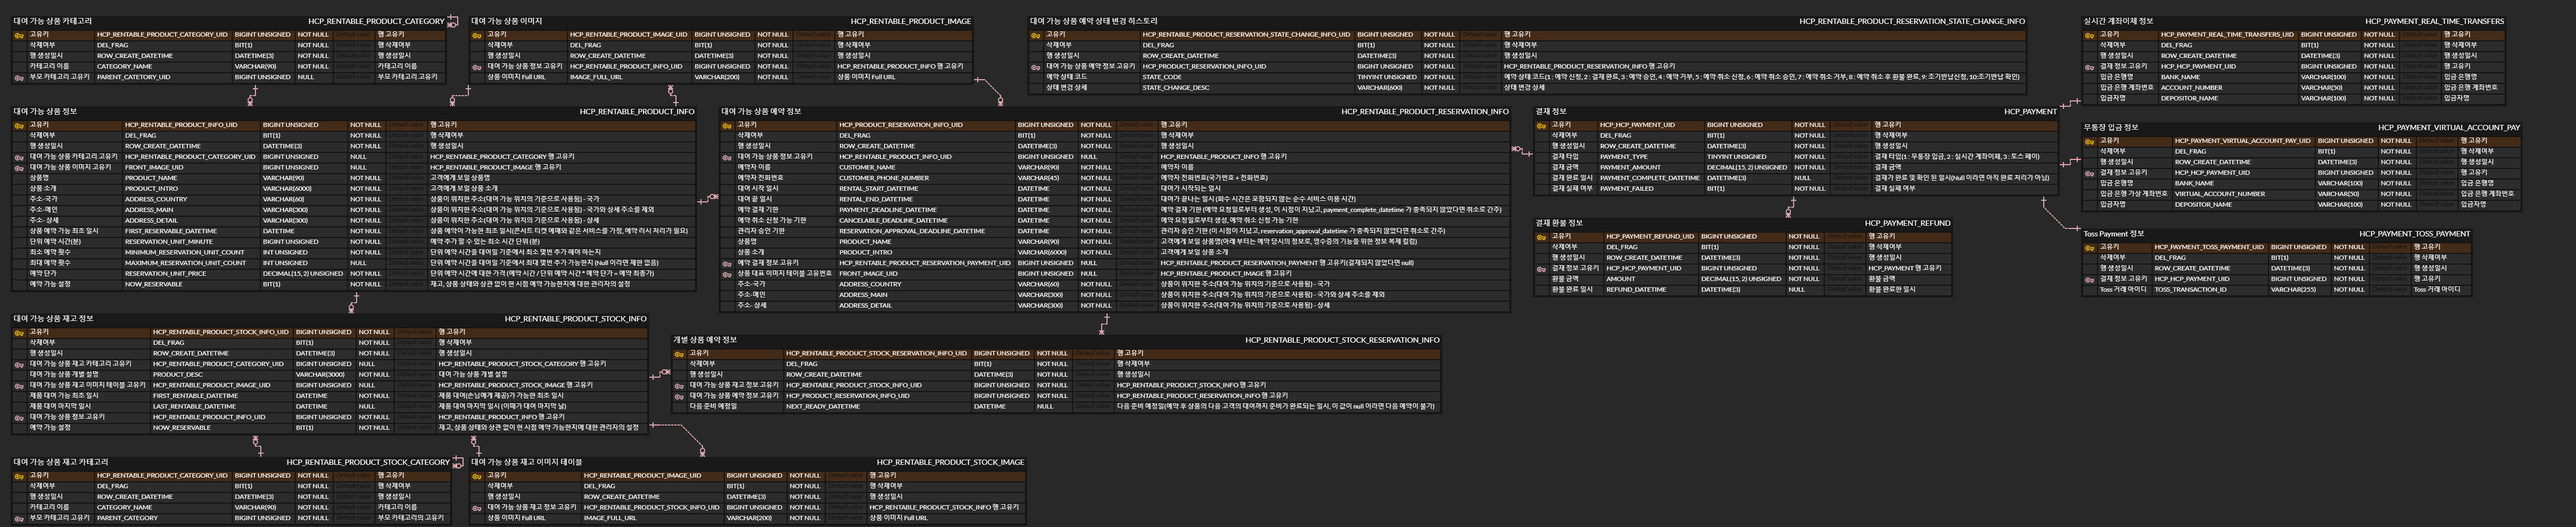
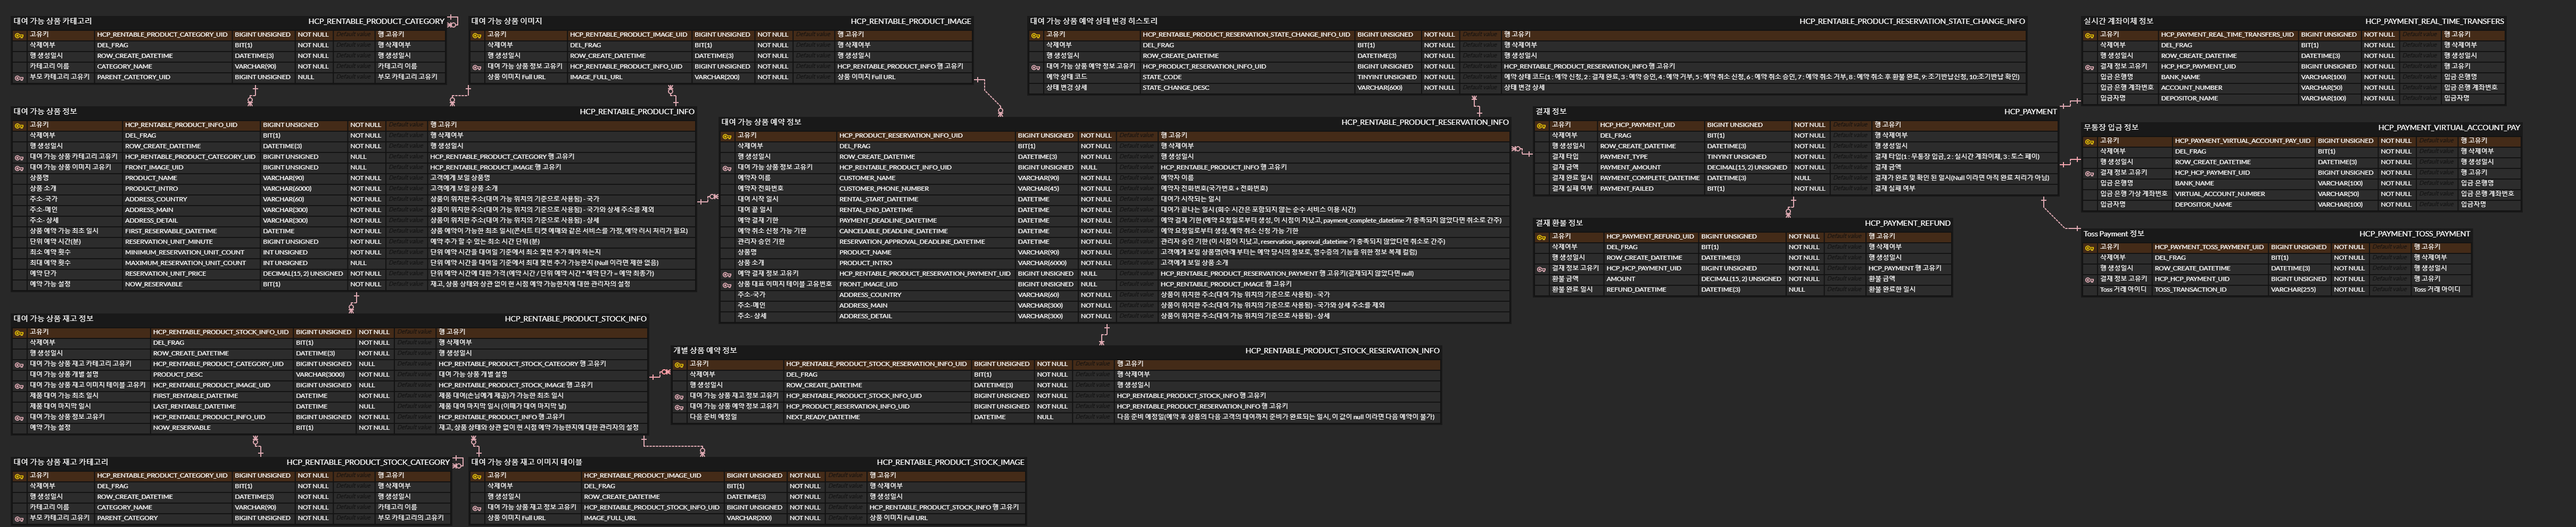
feat : 결재 관련 데이터 테이블 추가(결재 모듈은 추후 추가 예정)

diff --git a/module-service-rental-reservation/src/main/kotlin/com/raillylinker/module_service_rental_reservation/jpa_beans/db1_main/entities/Db1_RaillyLinkerCompany_Payment.kt b/module-service-rental-reservation/src/main/kotlin/com/raillylinker/module_service_rental_reservation/jpa_beans/db1_main/entities/Db1_RaillyLinkerCompany_Payment.kt
@@ -1,0 +1,69 @@
+package com.raillylinker.module_service_rental_reservation.jpa_beans.db1_main.entities
+
+import jakarta.persistence.*
+import org.hibernate.annotations.ColumnDefault
+import org.hibernate.annotations.Comment
+import org.hibernate.annotations.CreationTimestamp
+import org.hibernate.annotations.UpdateTimestamp
+import java.math.BigDecimal
+import java.time.LocalDateTime
+
+@Entity
+@Table(
+    name = "payment",
+    catalog = "railly_linker_company"
+)
+@Comment("결재 정보 테이블")
+class Db1_RaillyLinkerCompany_Payment(
+    @Column(name = "payment_type", nullable = false, columnDefinition = "TINYINT UNSIGNED")
+    @Comment("결재 타입(1 : 무통장 입금, 2 : 실시간 계좌이체, 3 : 토스 페이)")
+    var paymentType: String,
+
+    @Column(name = "payment_amount", nullable = false, columnDefinition = "DECIMAL(15, 2) UNSIGNED")
+    @Comment("결재 금액")
+    var paymentAmount: BigDecimal,
+
+    @Column(name = "payment_complete_datetime", nullable = true, columnDefinition = "DATETIME(3)")
+    @Comment("결재 완료 일시")
+    var paymentCompleteDatetime: LocalDateTime?,
+
+    @Column(name = "payment_failed", nullable = false, columnDefinition = "BIT(1)")
+    @Comment("결재 실패 여부")
+    var paymentFailed: Boolean
+) {
+    @Id
+    @GeneratedValue(strategy = GenerationType.IDENTITY)
+    @Column(name = "uid", columnDefinition = "BIGINT UNSIGNED")
+    @Comment("행 고유값")
+    var uid: Long? = null
+
+    @Column(name = "row_create_date", nullable = false, columnDefinition = "DATETIME(3)")
+    @CreationTimestamp
+    @Comment("행 생성일")
+    var rowCreateDate: LocalDateTime? = null
+
+    @Column(name = "row_update_date", nullable = false, columnDefinition = "DATETIME(3)")
+    @UpdateTimestamp
+    @Comment("행 수정일")
+    var rowUpdateDate: LocalDateTime? = null
+
+    @Column(name = "row_delete_date_str", nullable = false, columnDefinition = "VARCHAR(50)")
+    @ColumnDefault("'/'")
+    @Comment("행 삭제일(yyyy_MM_dd_T_HH_mm_ss_SSS_z, 삭제되지 않았다면 /)")
+    var rowDeleteDateStr: String = "/"
+
+    // ---------------------------------------------------------------------------------------------
+    // [@OneToMany 변수들]
+    // 상위 카테고리가 삭제되면 하위 카테고리도 삭제
+    @OneToMany(
+        mappedBy = "payment",
+        fetch = FetchType.LAZY,
+        cascade = [CascadeType.ALL]
+    )
+    var paymentRefundList: MutableList<Db1_RaillyLinkerCompany_PaymentRefund> = mutableListOf()
+
+
+    // ---------------------------------------------------------------------------------------------
+    // <중첩 클래스 공간>
+
+}

diff --git a/module-service-rental-reservation/src/main/kotlin/com/raillylinker/module_service_rental_reservation/jpa_beans/db1_main/entities/Db1_RaillyLinkerCompany_PaymentRefund.kt b/module-service-rental-reservation/src/main/kotlin/com/raillylinker/module_service_rental_reservation/jpa_beans/db1_main/entities/Db1_RaillyLinkerCompany_PaymentRefund.kt
@@ -1,0 +1,59 @@
+package com.raillylinker.module_service_rental_reservation.jpa_beans.db1_main.entities
+
+import jakarta.persistence.*
+import org.hibernate.annotations.ColumnDefault
+import org.hibernate.annotations.Comment
+import org.hibernate.annotations.CreationTimestamp
+import org.hibernate.annotations.UpdateTimestamp
+import java.math.BigDecimal
+import java.time.LocalDateTime
+
+@Entity
+@Table(
+    name = "payment_refund",
+    catalog = "railly_linker_company"
+)
+@Comment("결재 환불 정보 테이블")
+class Db1_RaillyLinkerCompany_PaymentRefund(
+    @ManyToOne
+    @JoinColumn(name = "payment_uid", nullable = false)
+    @Comment("payment 테이블 고유번호 (railly_linker_company.payment.uid)")
+    var payment: Db1_RaillyLinkerCompany_Payment,
+
+    @Column(name = "amount", nullable = false, columnDefinition = "DECIMAL(15, 2) UNSIGNED")
+    @Comment("환불 금액")
+    var amount: BigDecimal,
+
+    @Column(name = "refund_datetime", nullable = true, columnDefinition = "DATETIME(3)")
+    @Comment("환불 완료 일시")
+    var paymentCompleteDatetime: LocalDateTime?
+) {
+    @Id
+    @GeneratedValue(strategy = GenerationType.IDENTITY)
+    @Column(name = "uid", columnDefinition = "BIGINT UNSIGNED")
+    @Comment("행 고유값")
+    var uid: Long? = null
+
+    @Column(name = "row_create_date", nullable = false, columnDefinition = "DATETIME(3)")
+    @CreationTimestamp
+    @Comment("행 생성일")
+    var rowCreateDate: LocalDateTime? = null
+
+    @Column(name = "row_update_date", nullable = false, columnDefinition = "DATETIME(3)")
+    @UpdateTimestamp
+    @Comment("행 수정일")
+    var rowUpdateDate: LocalDateTime? = null
+
+    @Column(name = "row_delete_date_str", nullable = false, columnDefinition = "VARCHAR(50)")
+    @ColumnDefault("'/'")
+    @Comment("행 삭제일(yyyy_MM_dd_T_HH_mm_ss_SSS_z, 삭제되지 않았다면 /)")
+    var rowDeleteDateStr: String = "/"
+
+    // ---------------------------------------------------------------------------------------------
+    // [@OneToMany 변수들]
+
+
+    // ---------------------------------------------------------------------------------------------
+    // <중첩 클래스 공간>
+
+}

diff --git a/module-service-rental-reservation/src/main/kotlin/com/raillylinker/module_service_rental_reservation/jpa_beans/db1_main/repositories/Db1_RaillyLinkerCompany_PaymentRefund_Repository.kt b/module-service-rental-reservation/src/main/kotlin/com/raillylinker/module_service_rental_reservation/jpa_beans/db1_main/repositories/Db1_RaillyLinkerCompany_PaymentRefund_Repository.kt
@@ -1,0 +1,10 @@
+package com.raillylinker.module_service_rental_reservation.jpa_beans.db1_main.repositories
+
+import com.raillylinker.module_service_rental_reservation.jpa_beans.db1_main.entities.Db1_RaillyLinkerCompany_PaymentRefund
+import org.springframework.data.jpa.repository.JpaRepository
+import org.springframework.stereotype.Repository
+
+@Repository
+interface Db1_RaillyLinkerCompany_PaymentRefund_Repository :
+    JpaRepository<Db1_RaillyLinkerCompany_PaymentRefund, Long> {
+}

diff --git a/module-service-rental-reservation/src/main/kotlin/com/raillylinker/module_service_rental_reservation/jpa_beans/db1_main/repositories/Db1_RaillyLinkerCompany_Payment_Repository.kt b/module-service-rental-reservation/src/main/kotlin/com/raillylinker/module_service_rental_reservation/jpa_beans/db1_main/repositories/Db1_RaillyLinkerCompany_Payment_Repository.kt
@@ -1,0 +1,10 @@
+package com.raillylinker.module_service_rental_reservation.jpa_beans.db1_main.repositories
+
+import com.raillylinker.module_service_rental_reservation.jpa_beans.db1_main.entities.Db1_RaillyLinkerCompany_Payment
+import org.springframework.data.jpa.repository.JpaRepository
+import org.springframework.stereotype.Repository
+
+@Repository
+interface Db1_RaillyLinkerCompany_Payment_Repository :
+    JpaRepository<Db1_RaillyLinkerCompany_Payment, Long> {
+}
